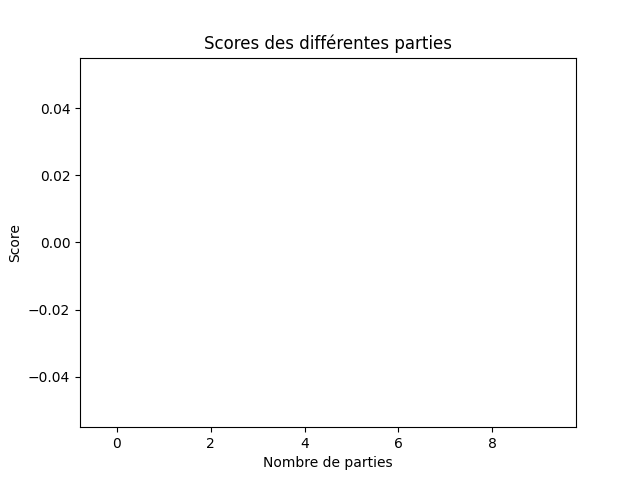
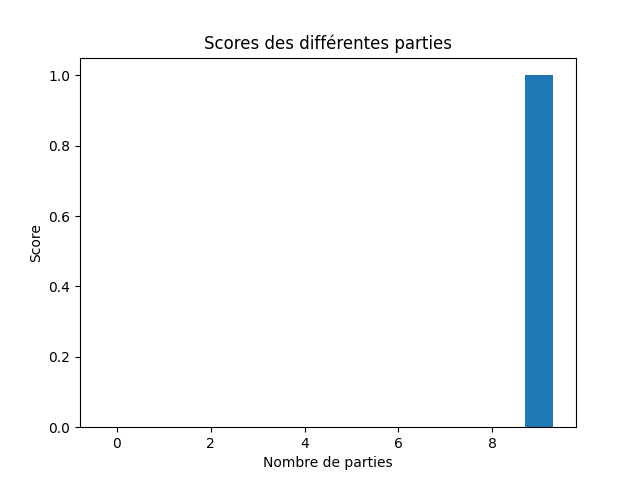
Correction bug stat

diff --git a/web/templates/statistiques-survie.html b/web/templates/statistiques-survie.html
@@ -23,10 +23,8 @@
         <div class="box_graph">
             <div class="box">
                 <p>
-                    <br>Parties jouées : {{liste[0]}} 
-                    <br><br>Parties gagnées : {{liste[1]}}
-                    <br><br>Taux de victoire : {{liste[2]}}
-                    <br><br>Score moyen : {{liste[4]}}
+                    <br><br>Parties jouées : {{liste[0]}}
+                    <br><br>Score moyen : {{liste[4]}}      
                     <br><br>Meilleur score : {{liste[5]}}
                     <br><br>Expérience : {{liste[3]}}
                 </p>

diff --git a/web/templates/statistiques-big50.html b/web/templates/statistiques-big50.html
@@ -23,9 +23,7 @@
         <div class="box_graph">
             <div class="box">
                 <p>
-                    <br>Parties jouées : {{liste[0]}} 
-                    <br><br>Parties gagnées : {{liste[1]}}
-                    <br><br>Taux de victoire : {{liste[2]}}
+                    <br><br>Parties jouées : {{liste[0]}}
                     <br><br>Score moyen : {{liste[4]}}
                     <br><br>Meilleur score : {{liste[5]}}
                     <br><br>Expérience : {{liste[3]}}

diff --git a/web/templates/statistiques-clm.html b/web/templates/statistiques-clm.html
@@ -23,9 +23,7 @@
         <div class="box_graph">
             <div class="box">
                 <p>
-                    <br>Parties jouées : {{liste[0]}} 
-                    <br><br>Parties gagnées : {{liste[1]}}
-                    <br><br>Taux de victoire : {{liste[2]}}
+		     <br><br>Parties jouées : {{liste[0]}}
                     <br><br>Score moyen : {{liste[4]}}
                     <br><br>Meilleur score : {{liste[5]}}
                     <br><br>Expérience : {{liste[3]}}

diff --git a/web/templates/statistiques.html b/web/templates/statistiques.html
@@ -34,9 +34,6 @@
             <div class="graph">
                 <img src="static/image.png" class="histogramme" alt="image" title="Histogramme">
             </div>
-            <div class="graph2">
-                <img src="static/image2.png" class="histogramme2" alt="image2" title="Histogramme">
-            </div>
         </div>
     </div>
 {% endblock %}

diff --git a/web/app.py b/web/app.py
@@ -416,7 +416,7 @@ def stat():
     #Selection des stats d'un joueur en particulier
     nb_vict,nb_parties,xp,taux_vict=selection_joueur(user,data)
     #Tracer histogramme
-    moyenne,meilleur,inutile=trace_histo(user,"Classique")
+    moyenne,meilleur,inutile,inutile=trace_histo(user,"Classique")
     histo_histo(user,"Classique")
 
     return render_template("statistiques.html", liste=[nb_parties,nb_vict,taux_vict,xp,moyenne,meilleur])
@@ -433,10 +433,10 @@ def stat_survie():
     #Selection des stats d'un joueur en particulier
     nb_vict,nb_parties,xp,taux_vict=selection_joueur(user,data)
     #Tracer histogramme
-    moyenne,inutile,meilleur=trace_histo(user,"Survie")
+    moyenne,inutile,meilleur,nb_parties=trace_histo(user,"Survie")
     histo_histo(user,"Survie")
 
-    return render_template("statistiques-survie.html", liste=[nb_parties,nb_vict,taux_vict,xp,moyenne])
+    return render_template("statistiques-survie.html", liste=[nb_parties,nb_vict,taux_vict,xp,moyenne,meilleur])
 
 #Statistiques Big50
 @app.route('/statistiques-big50')
@@ -448,10 +448,10 @@ def stat_big50():
     #Selection des stats d'un joueur en particulier
     nb_vict,nb_parties,xp,taux_vict=selection_joueur(user,data)
     #Tracer histogramme
-    moyenne,inutile,meilleur=trace_histo(user,"Big50")
+    moyenne,inutile,meilleur,nb_parties=trace_histo(user,"Big50")
     histo_histo(user,"Big50")
 
-    return render_template("statistiques-big50.html", liste=[nb_parties,nb_vict,taux_vict,xp,moyenne])
+    return render_template("statistiques-big50.html", liste=[nb_parties,nb_vict,taux_vict,xp,moyenne,meilleur])
 
 
 #Statistiques CLM
@@ -464,10 +464,10 @@ def stat_clm():
     #Selection des stats d'un joueur en particulier
     nb_vict,nb_parties,xp,taux_vict=selection_joueur(user,data)
     #Tracer histogramme
-    moyenne,inutile,meilleur=trace_histo(user,"CLM")
+    moyenne,inutile,meilleur,nb_parties=trace_histo(user,"CLM")
     histo_histo(user,"CLM")
 
-    return render_template("statistiques-clm.html", liste=[nb_parties,nb_vict,taux_vict,xp,moyenne])
+    return render_template("statistiques-clm.html", liste=[nb_parties,nb_vict,taux_vict,xp,moyenne,meilleur])
 
 
 #Historique

diff --git a/web/fonctions_stat.py b/web/fonctions_stat.py
@@ -30,6 +30,7 @@ def trace_histo(user,mdj):              #ET CALCULE MOYENNE
         histo.append(i)
     con.commit()
     con.close()
+    nb_partie=len(histo)
     x=[]
     for u in histo:
         if  u[3]!=0:
@@ -60,7 +61,7 @@ def trace_histo(user,mdj):              #ET CALCULE MOYENNE
         plt.ylabel('Score')
         plt.title("Scores des différentes parties")
     plt.savefig('static/image.png')
-    return(moyenne,meilleur_classique,meilleur_score)
+    return(moyenne,meilleur_classique,meilleur_score,nb_partie)
 
 def selection_joueur(user,data):
     nb_vict=data[4]
@@ -82,7 +83,6 @@ def histo_histo(user,mdj):
         histo.append(i)
     con.commit()
     con.close()
-
     histo=histo[-5:]
     x=[]
     y=[]
